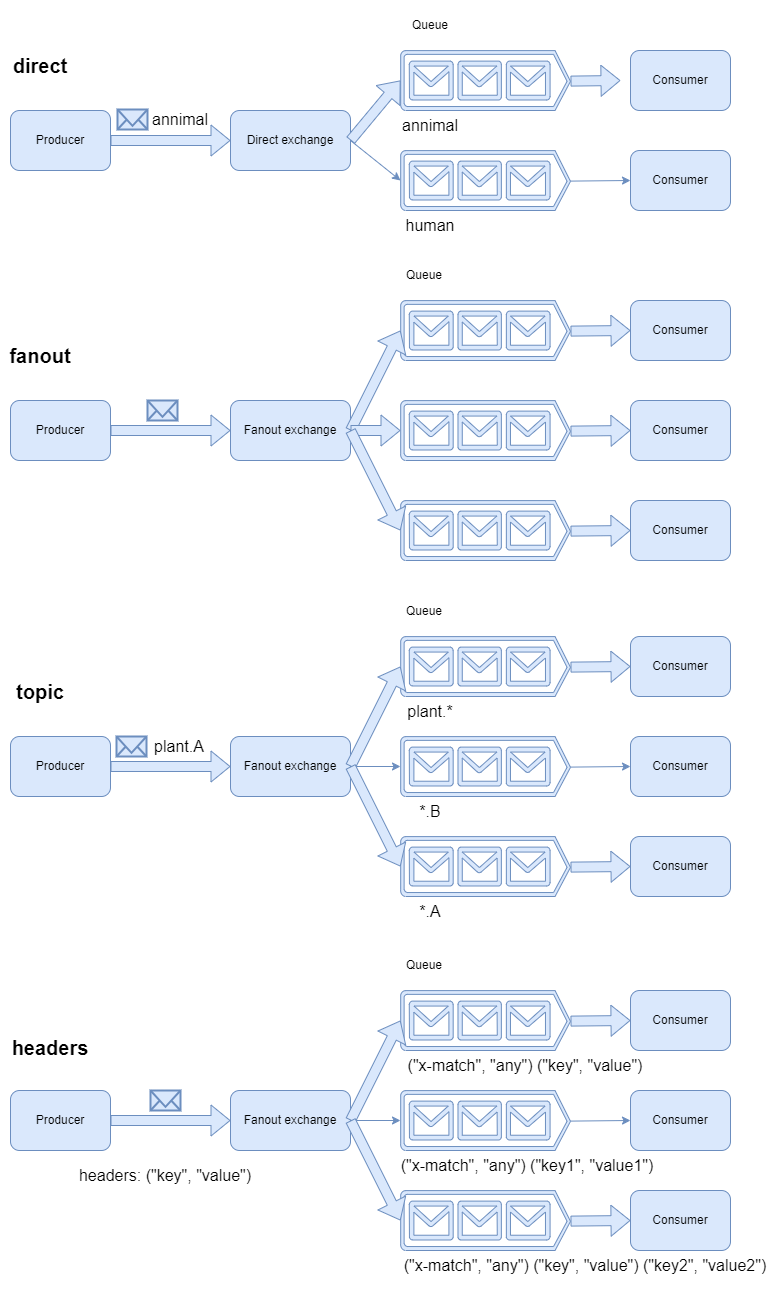
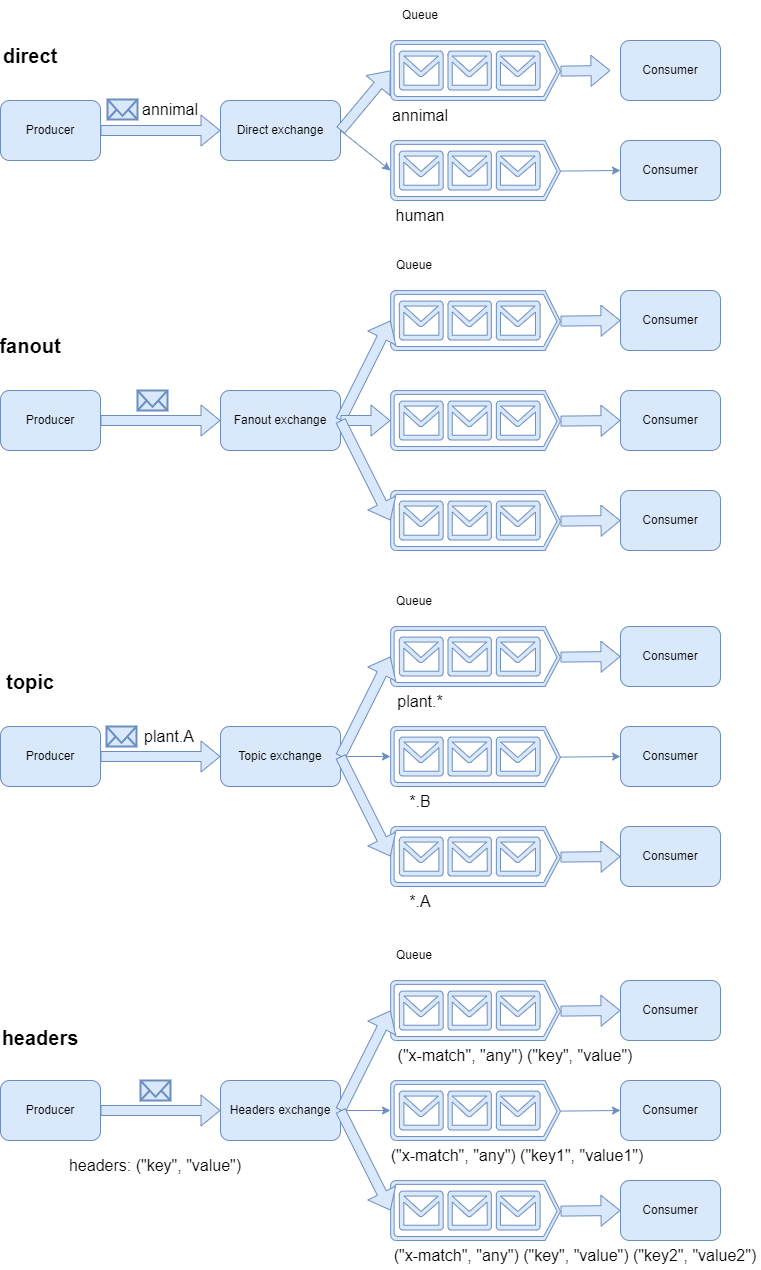
try to implement topic exchange

diff --git a/Topic messages/main.go b/Topic messages/main.go
@@ -1,0 +1,149 @@
+package main
+
+import (
+	"context"
+	"fmt"
+	amqp "github.com/rabbitmq/amqp091-go"
+	"log"
+	"math/rand"
+	"time"
+)
+
+func FailedOnError(err error, message string) {
+	if err != nil {
+		log.Fatal(message, "Error: ", err.Error())
+	}
+}
+
+func CreateTopicExchange(conn *amqp.Connection, name string) {
+	channel, err := conn.Channel()
+	FailedOnError(err, "<CreateTopicExchange> create channel failed")
+	defer channel.Close()
+
+	err = channel.ExchangeDeclare(
+		name,
+		amqp.ExchangeTopic,
+		true,
+		true,
+		false,
+		false,
+		nil,
+	)
+	FailedOnError(err, "<CreateTopicExchange> create exchange failed")
+}
+
+func BindExchangeAndQueue(conn *amqp.Connection, queueName, exchangeName, routingKey string) {
+	channel, err := conn.Channel()
+	FailedOnError(err, "<BindExchangeAndQueue> create channel failed")
+	defer channel.Close()
+
+	err = channel.QueueBind(
+		queueName,
+		routingKey,
+		exchangeName,
+		false,
+		nil,
+	)
+	FailedOnError(err, "<BindExchangeAndQueue> bind queue failed")
+}
+
+func CreateQueue(conn *amqp.Connection, name string) amqp.Queue {
+	channel, err := conn.Channel()
+	FailedOnError(err, "<CreateQueue> create channel failed")
+	defer channel.Close()
+
+	queue, err := channel.QueueDeclare(
+		name,
+		true,
+		false,
+		false,
+		false,
+		nil,
+	)
+	FailedOnError(err, "<CreateQueue> create queue failed")
+
+	return queue
+}
+
+func Send(conn *amqp.Connection, exchangeName string) {
+	channel, err := conn.Channel()
+	FailedOnError(err, "<Send> create channel failed")
+	defer channel.Close()
+
+	routingKeys := []string{"apple", "banana"}
+	ctx := context.Background()
+	for i := 0; i < 10; i++ {
+		idx := rand.Intn(2)
+		routingKey := routingKeys[idx]
+		err = channel.PublishWithContext(
+			ctx,
+			exchangeName,
+			routingKey,
+			false,
+			false,
+			amqp.Publishing{
+				ContentType:  "plain/text",
+				DeliveryMode: 2,
+				Body:         []byte(fmt.Sprintf("%v", time.Now())),
+			},
+		)
+		fmt.Println(fmt.Sprintf("<Send> send message with routing key %s to exchange %s", routingKey, exchangeName))
+	}
+	FailedOnError(err, "<Send> send message failed")
+}
+
+func Receive(conn *amqp.Connection, consumerName, queueName string, callback func(string, []byte)) {
+	fmt.Printf("<Receive> consumer %s starts to receive messages\n", consumerName)
+	channel, err := conn.Channel()
+	FailedOnError(err, "<Receive> create channel failed")
+	defer channel.Close()
+
+	chDelivery, err := channel.Consume(
+		queueName,
+		consumerName,
+		false,
+		false,
+		false,
+		false,
+		nil,
+	)
+	FailedOnError(err, fmt.Sprintf("<Receive> consumer %s fails to receive messages", consumerName))
+	for delivery := range chDelivery {
+		callback(consumerName, delivery.Body)
+	}
+}
+
+func main() {
+	conn, err := amqp.Dial("amqp://goadmin:123456@localhost:5672/goapp-vhost")
+	FailedOnError(err, "connect to RabbitMQ server failed")
+	defer conn.Close()
+
+	topicExchangeName := "goapp.exchange.topic.product"
+	CreateTopicExchange(conn, topicExchangeName)
+
+	aQueue := CreateQueue(conn, "app.queue.a")
+	bQueue := CreateQueue(conn, "app.queue.b")
+
+	BindExchangeAndQueue(conn, aQueue.Name, topicExchangeName, "a.*")
+	BindExchangeAndQueue(conn, bQueue.Name, topicExchangeName, "b.*")
+
+	go func() {
+		Send(conn, topicExchangeName)
+	}()
+
+	var callback = func(consumerName string, body []byte) {
+		fmt.Println(consumerName, string(body))
+	}
+
+	// consume messages with topic 'a*'
+	go func() {
+		Receive(conn, "consumer.a", aQueue.Name, callback)
+	}()
+
+	// consume messages with topic 'b*'
+	go func() {
+		Receive(conn, "consumer.b", bQueue.Name, callback)
+	}()
+
+	select {}
+}

diff --git a/docs/AMQP.md b/docs/AMQP.md
@@ -32,7 +32,16 @@ There are 4 different kinds/types of exchanges.
 
 The diagram below illustrates the different exchange types of how the messages are routed.
 
+### Topic exchange
+
+Unlike the direct exchange that routes messages to one queue maximum, the topic exchange can route messages to multiple
+queues.
+
 ![](images/4_exchange_types.png)
+
+## Queue
+
+RabbitMQ can deal with hundreds of queues and bindings without a problem.
 
 ## Routing
 
